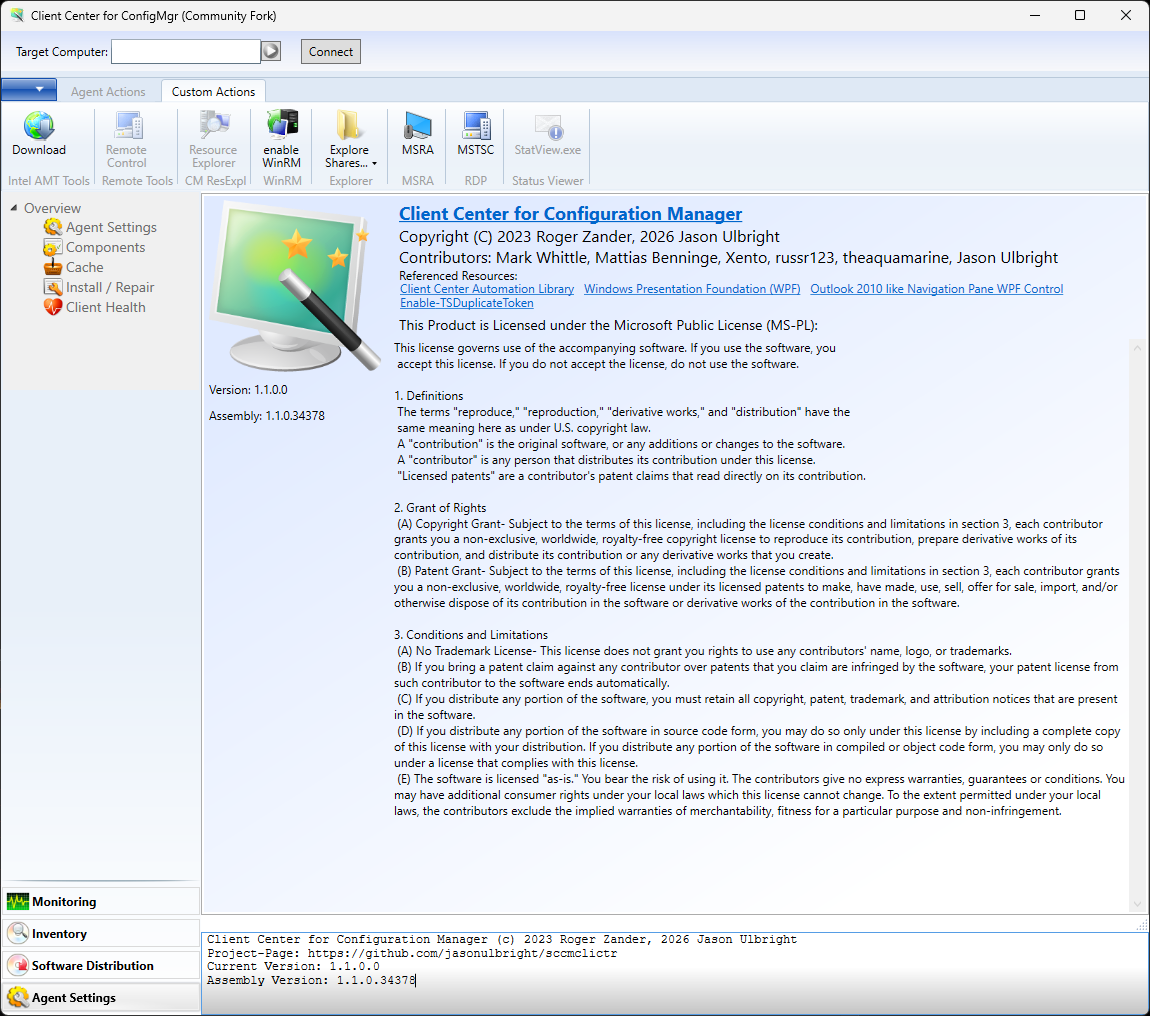
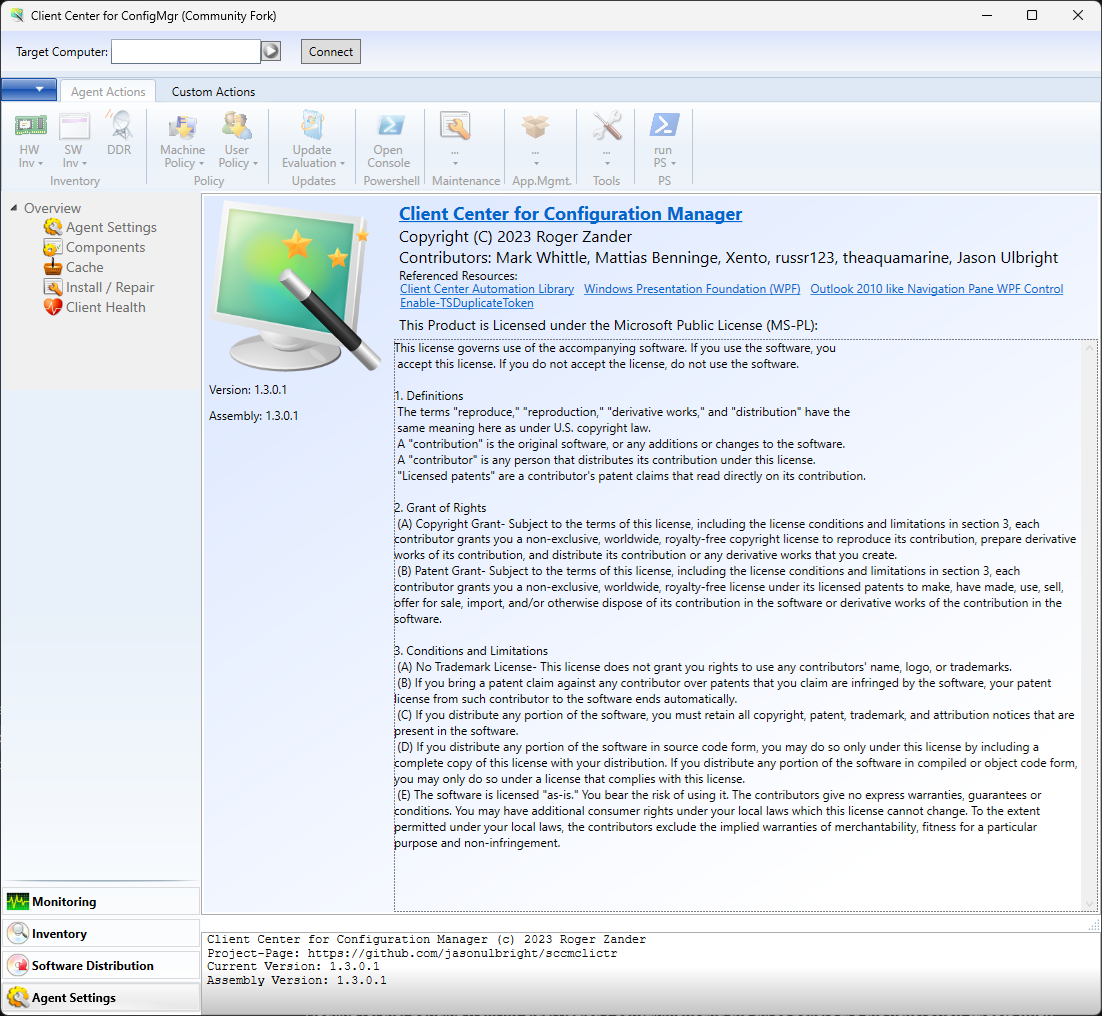
docs: correct README and refresh screenshot

Changed region(s): [[0.0, 0.0, 0.9873, 0.8543], [0.0, 0.8848, 0.7096, 1.0], [0.1543, 0.8543, 0.1851, 0.8848]]

diff --git a/README.md b/README.md
@@ -8,11 +8,11 @@
 [![License](https://img.shields.io/github/license/jasonulbright/sccmclictr)](LICENSE.md)
 [![Maintenance](https://img.shields.io/badge/status-maintenance-2ea44f)](#project-scope)
 
-A WPF desktop tool for IT professionals to troubleshoot Microsoft Configuration Manager (ConfigMgr/MECM) clients on remote Windows computers. Connect through WinRM to inspect client settings, services, deployments, updates, policy, logs, and inventory, and to run administrative actions from one place.
+A WPF desktop tool for IT professionals to troubleshoot Microsoft Configuration Manager (ConfigMgr) clients on remote Windows computers. It uses PowerShell remoting over WinRM to inspect client settings, services, deployments, updates, policy, logs, and inventory, and to run administrative actions from one place.
 
-![Client Center for ConfigMgr](screenshot.png)
+![Client Center for Configuration Manager v1.3.0.1 About screen](screenshot.png)
 
-This is the maintained community continuation of [Roger Zander's original Client Center](https://github.com/rzander/sccmclictr). It preserves the proven .NET Framework application and plugin model while keeping the tool buildable, secure, and usable on current Windows and ConfigMgr releases.
+This is a maintenance-focused community continuation of [Roger Zander's original Client Center](https://github.com/rzander/sccmclictr). It preserves the established .NET Framework application and plugin model while adding reproducible builds, security fixes, and supported release packaging. It is an independent community project and is not supported by Microsoft.
 
 ## Install
 
@@ -22,7 +22,7 @@ Download the [latest release](https://github.com/jasonulbright/sccmclictr/releas
 - `ClientCenterForConfigMgr-Portable.zip` — extract anywhere and run `SCCMCliCtrWPF.exe`; no installation or registry changes.
 - `checksums.txt` — SHA-256 hashes for both release assets.
 
-Release binaries and the installer are Authenticode-signed through Azure Artifact Signing. The release workflow verifies the signer and timestamp before publication, and GitHub build-provenance attestations are attached to the assets. To verify the checksum in PowerShell:
+First-party application binaries and the installer are Authenticode-signed through Azure Artifact Signing. The release workflow verifies the signer and timestamp before publication, and GitHub publishes build-provenance attestations for the installer and portable archive. The vendored `NavigationPane.dll` retains its upstream unsigned binary. To verify the checksum in PowerShell:
 
 ```powershell
 Get-FileHash .\ClientCenterForConfigMgr-Setup.exe -Algorithm SHA256
@@ -36,7 +36,7 @@ Host machine (running Client Center):
 
 | Component | Version |
 |---|---|
-| OS | Windows 10 1607+ / Windows Server 2016+ |
+| OS | Windows 10 1607+ / Windows Server 2016+ (installer-enforced minimum) |
 | .NET Framework | 4.8 |
 | PowerShell | Windows PowerShell 5.1 |
 
@@ -44,17 +44,19 @@ Target machine (being managed):
 
 | Component | Requirement |
 |---|---|
-| WinRM | Enabled (`winrm quickconfig`) |
-| PowerShell | 4.0+ (5.1 recommended) |
-| ConfigMgr client | Any supported version |
+| WinRM | Enabled and reachable |
+| PowerShell | Windows PowerShell 3.0+ |
+| ConfigMgr client | Installed on an OS supported by the site's ConfigMgr version |
 | Permissions | Local administrator rights on the target |
+
+See Microsoft's documentation for [PowerShell remoting requirements](https://learn.microsoft.com/powershell/module/microsoft.powershell.core/about/about_remote_requirements) and the [ConfigMgr client OS support matrix](https://learn.microsoft.com/intune/configmgr/core/plan-design/configs/supported-operating-systems-for-clients-and-devices). Individual Client Center features can also depend on the ConfigMgr client version and locally installed administrative tools.
 
 ## Usage
 
 Launch Client Center and enter the target hostname.
 
-- Integrated authentication (recommended): run Client Center under an administrative account and connect without entering credentials. The current Kerberos token is used.
-- Explicit credentials: enter `DOMAIN\username` and the password. Passwords are not persisted between sessions.
+- Integrated authentication (recommended): leave the username blank to use the current Windows identity through WinRM. Domain hostnames normally use Kerberos; other scenarios follow the host's WinRM authentication configuration.
+- Explicit credentials: enter `DOMAIN\username` and the password. The username can be remembered, but the password is not persisted between sessions or accepted on the command line.
 
 Command line:
 
@@ -73,8 +75,8 @@ SCCMCliCtrWPF.exe <Hostname> [/Username:DOMAIN\user]
 | Registry Editor | Browse and edit the remote registry |
 | Enable PSRemoting | Enable WinRM through WMI where needed |
 | Status Message Viewer | View ConfigMgr status messages |
-| Resource Explorer | Browse ConfigMgr resource inventory |
-| Remote Tools | Launch ConfigMgr Remote Control |
+| Resource Explorer | Launch the ConfigMgr console Resource Explorer (console required) |
+| Remote Tools | Launch the ConfigMgr Remote Control viewer (console required) |
 | MSInfo32 | Open remote system information |
 | MSRA | Launch Microsoft Remote Assistance |
 | FEP | Inspect Endpoint Protection state |
@@ -83,7 +85,7 @@ SCCMCliCtrWPF.exe <Hostname> [/Username:DOMAIN\user]
 
 ## Community fork changes
 
-- Integrated the formerly closed `sccmclictr.automation` NuGet library as maintainable .NET Framework 4.8 C# source.
+- Reconstructed the formerly DLL-only `sccmclictr.automation` NuGet dependency as a buildable .NET Framework 4.8 C# project included in this repository.
 - Removed the dead self-update and RuckZuck plugins that could block startup against retired services.
 - Restored TLS certificate validation and removed the global trust-all callback.
 - Removed plaintext password persistence and the `/Password:` command-line argument.
@@ -103,7 +105,7 @@ Some optional legacy PowerShell scripts intentionally retain WMI syntax because 
 | `Invoke-Expression` command injection | Removed |
 | Password on the command line | Removed |
 | WMI-to-CIM migration | Substantial; compatibility paths and optional scripts remain |
-| Bare catch blocks | Audited and protected by a regression baseline |
+| Bare catch blocks | Legacy instances remain; a regression baseline prevents new ones |
 | Vendored UI dependencies | Accepted for the .NET Framework maintenance lifecycle |
 | Release integrity | Authenticode, SHA-256 checksums, and GitHub attestations |
 
